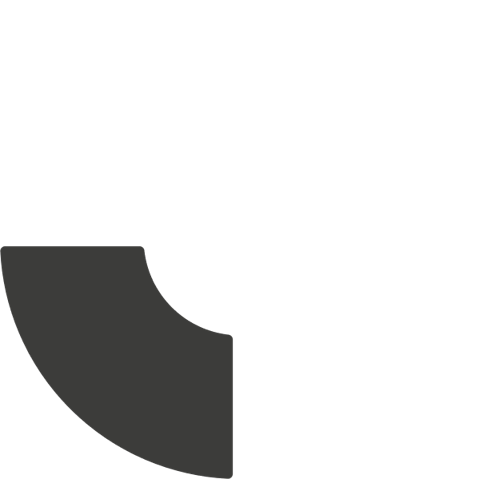
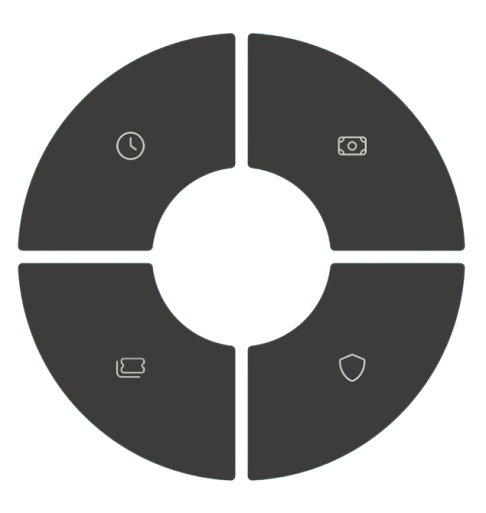
page bâtiments modifiée

diff --git a/src/app/batiments/components/advantages.tsx b/src/app/batiments/components/advantages.tsx
@@ -5,41 +5,35 @@ import Image from "next/image";
 
 const accompagnement = [
   {
-    title: "Accompagnement personnalisé",
+    title: "Phase diagnostic",
     description:
-      "Un interlocuteur dédié pour vous guider à chaque étape du projet.",
+      "Visite-conseil approfondie de votre logement, identification précise des besoins et des points faibles énergétiques, établissement du DPE si nécessaire.",
     icon: <Sun className="h-6 w-6" />,
   },
   {
-    title: "Accompagnement personnalisé",
+    title: "Phase financement",
     description:
-      "Un interlocuteur dédié pour vous guider à chaque étape du projet.",
+      "Constitution et suivi des dossiers MaPrimeRénov', Certificats d'Économie d'Énergie, aides locales et prêts à taux zéro.",
     icon: <Sun className="h-6 w-6" />,
   },
   {
-    title: "Accompagnement personnalisé",
+    title: "Phase post-travaux",
     description:
-      "Un interlocuteur dédié pour vous guider à chaque étape du projet.",
+      "Conseils personnalisés sur les éco-gestes, suivi des consommations, accompagnement pour maximiser les bénéfices de votre rénovation.",
     icon: <Sun className="h-6 w-6" />,
   },
   {
-    title: "Accompagnement personnalisé",
+    title: "Phase préparation",
     description:
-      "Un interlocuteur dédié pour vous guider à chaque étape du projet.",
+      "Sélection rigoureuse d'artisans certifiés, analyse comparative des devis, planification détaillée du calendrier des travaux.",
     icon: <Sun className="h-6 w-6" />,
   },
   {
-    title: "Accompagnement personnalisé",
+    title: "Phase réalisation",
     description:
-      "Un interlocuteur dédié pour vous guider à chaque étape du projet.",
+      "Suivi de chantier, contrôle qualité des travaux, vérification de la conformité aux normes et aux engagements des artisans.",
     icon: <Sun className="h-6 w-6" />,
-  },
-  {
-    title: "Accompagnement personnalisé",
-    description:
-      "Un interlocuteur dédié pour vous guider à chaque étape du projet.",
-    icon: <Sun className="h-6 w-6" />,
-  },
+  }
 ];
 
 export const Advantages = () => {
@@ -104,7 +98,7 @@ export const Advantages = () => {
           {/* Version Desktop */}
           <div className="hidden lg:flex items-center md:flex sm:flex ">
             {/* Cartes de gauche */}
-            <div className="flex-1 max-w-sm">
+            <div className="flex-1 max-w-md">
               <div className="space-y-1 ">
                 {accompagnement.slice(0, 3).map((value, index) => (
                   <div
@@ -126,11 +120,11 @@ export const Advantages = () => {
 
             {/* Image centrée */}
             <div className="flex-shrink-0 mx-0">
-              <div className="h-96 w-2 bg-green-800" />
+              <div className="h-[550px] w-2 bg-green-800" />
             </div>
 
             {/* Cartes de droite */}
-            <div className="flex-1 max-w-sm">
+            <div className="flex-1 max-w-md">
               <div className="space-y-1 ">
                 {accompagnement.slice(3, 5).map((value, index) => (
                   <div

diff --git a/src/app/batiments/components/assistant.tsx b/src/app/batiments/components/assistant.tsx
@@ -4,7 +4,7 @@ import { Card, CardContent } from "@/components/ui/card";
 
 const fonctions = [
   {
-    title: "plateforme digitale innovante",
+    title: "Plateforme digitale innovante",
     description:
       "Une interface intuitive qui centralise toutes les étapes de votre projet de rénovation énergétique, depuis l'audit initial jusqu'au suivi post-travaux.",
   },
@@ -96,7 +96,7 @@ export const Assistant = () => {
               className="flex flex-col items-center text-center bg-white/30 shadow-lg"
             >
               <CardContent className="p-6">
-                <h3 className="text-lg font-semibold text-green-600 mb-2">
+                <h3 className="text-lg font-bold text-green-600 mb-4">
                   {fonction.title}
                 </h3>
                 <p className="text-gray-600">{fonction.description}</p>

diff --git a/src/app/batiments/components/examples.tsx b/src/app/batiments/components/examples.tsx
@@ -127,7 +127,7 @@ export const Examples = () => {
           <div className="flex-shrink-0 mx-2">
             <div className="">
               <Image
-                src="/images/rond.png"
+                src="/images/advantage.png"
                 alt="les avantages"
                 width={400}
                 height={400}
